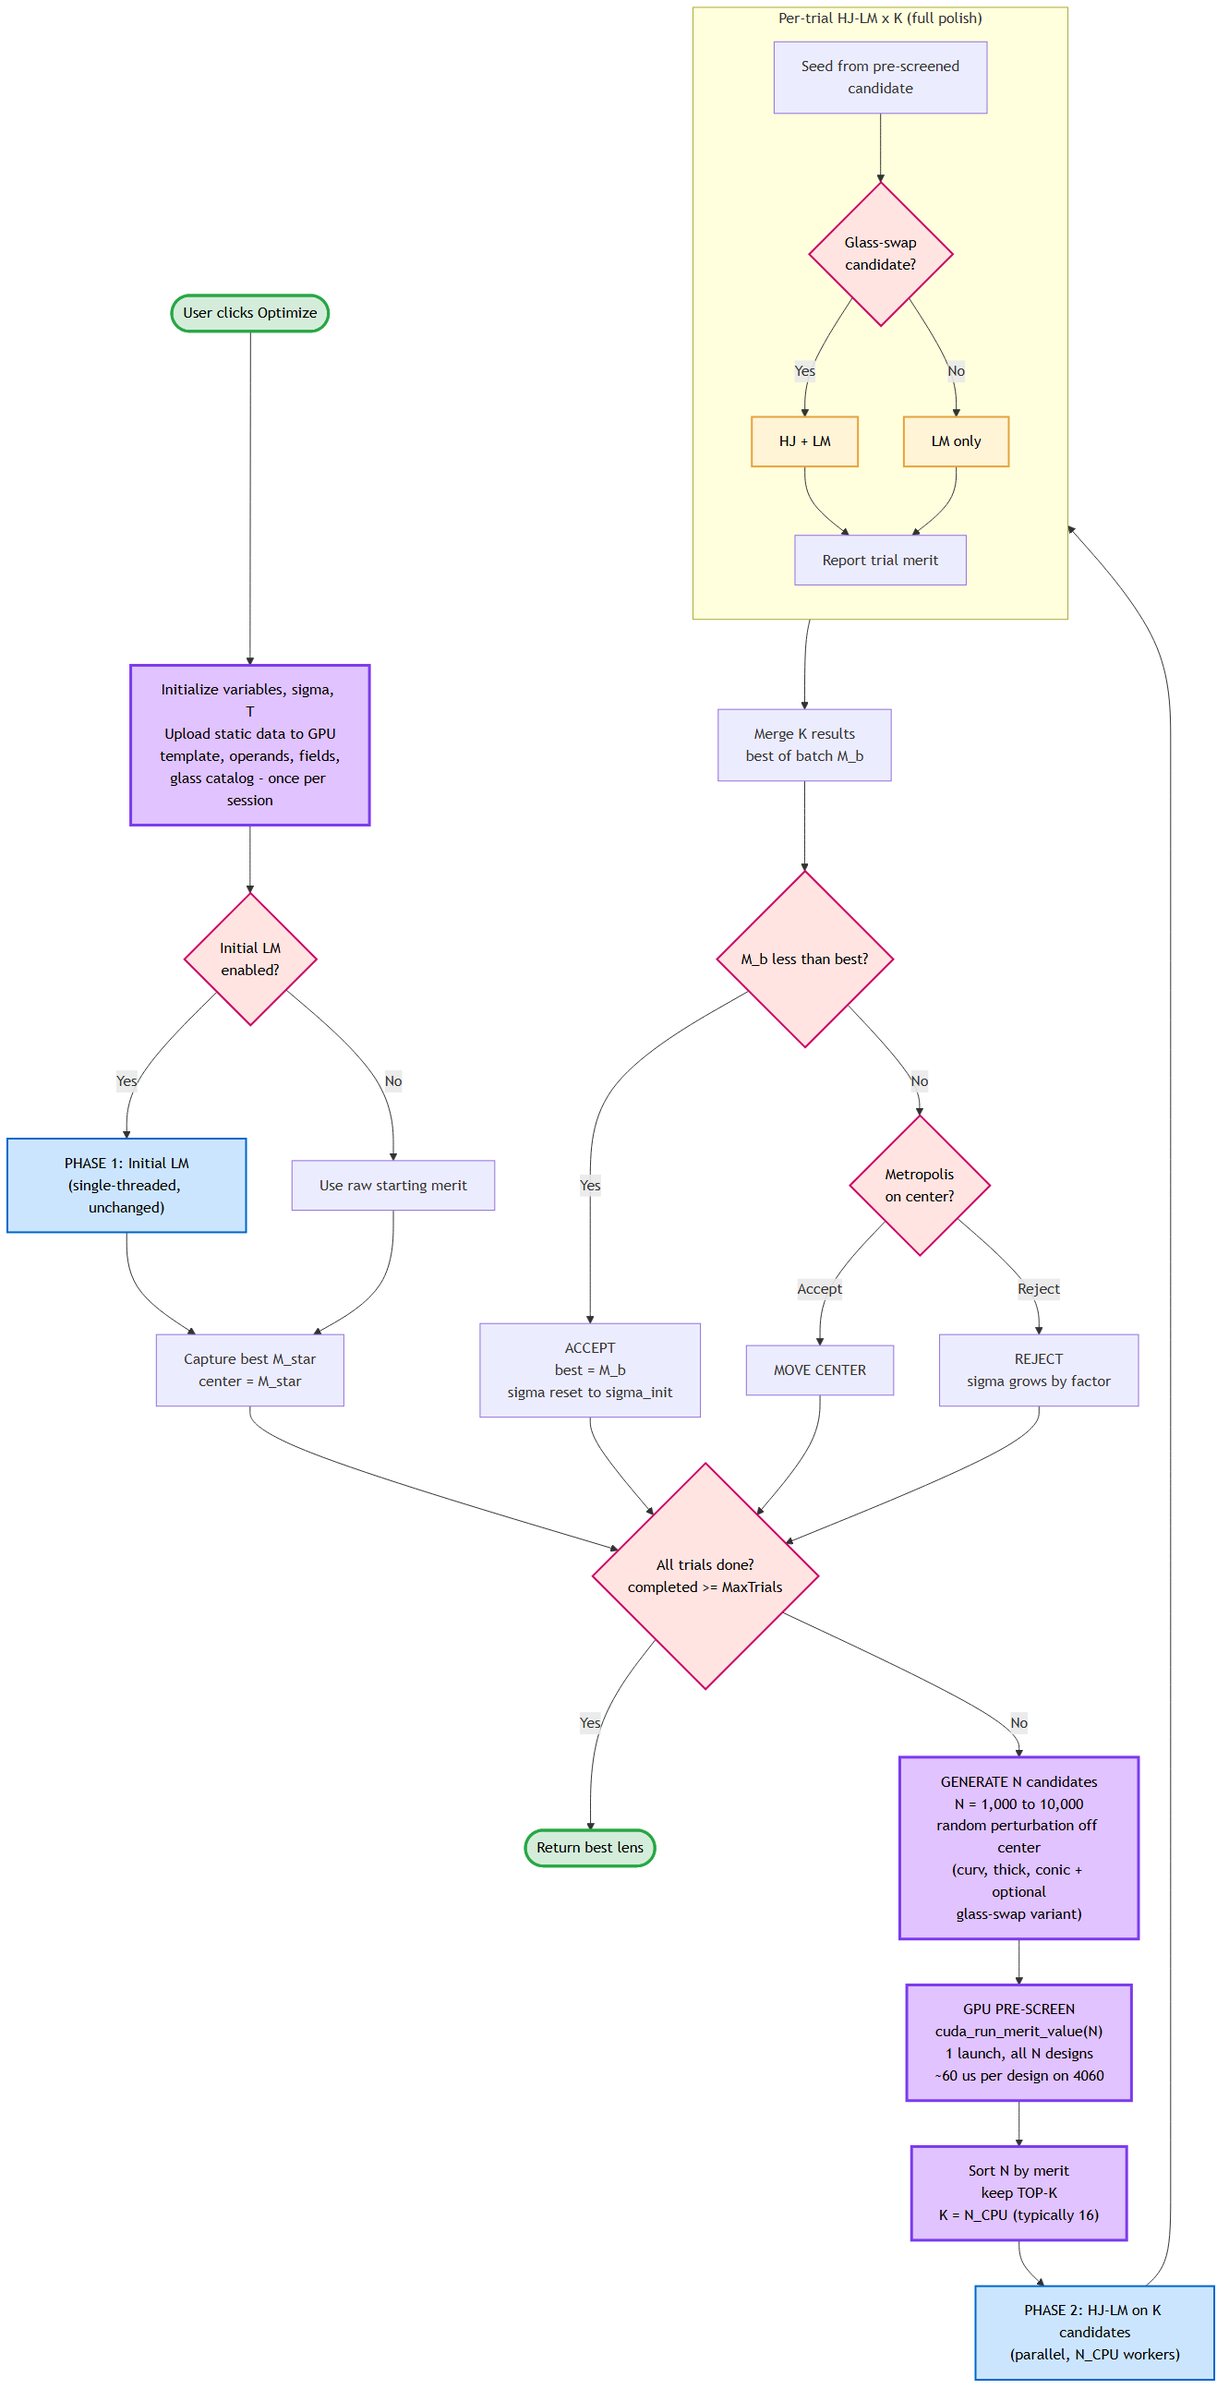
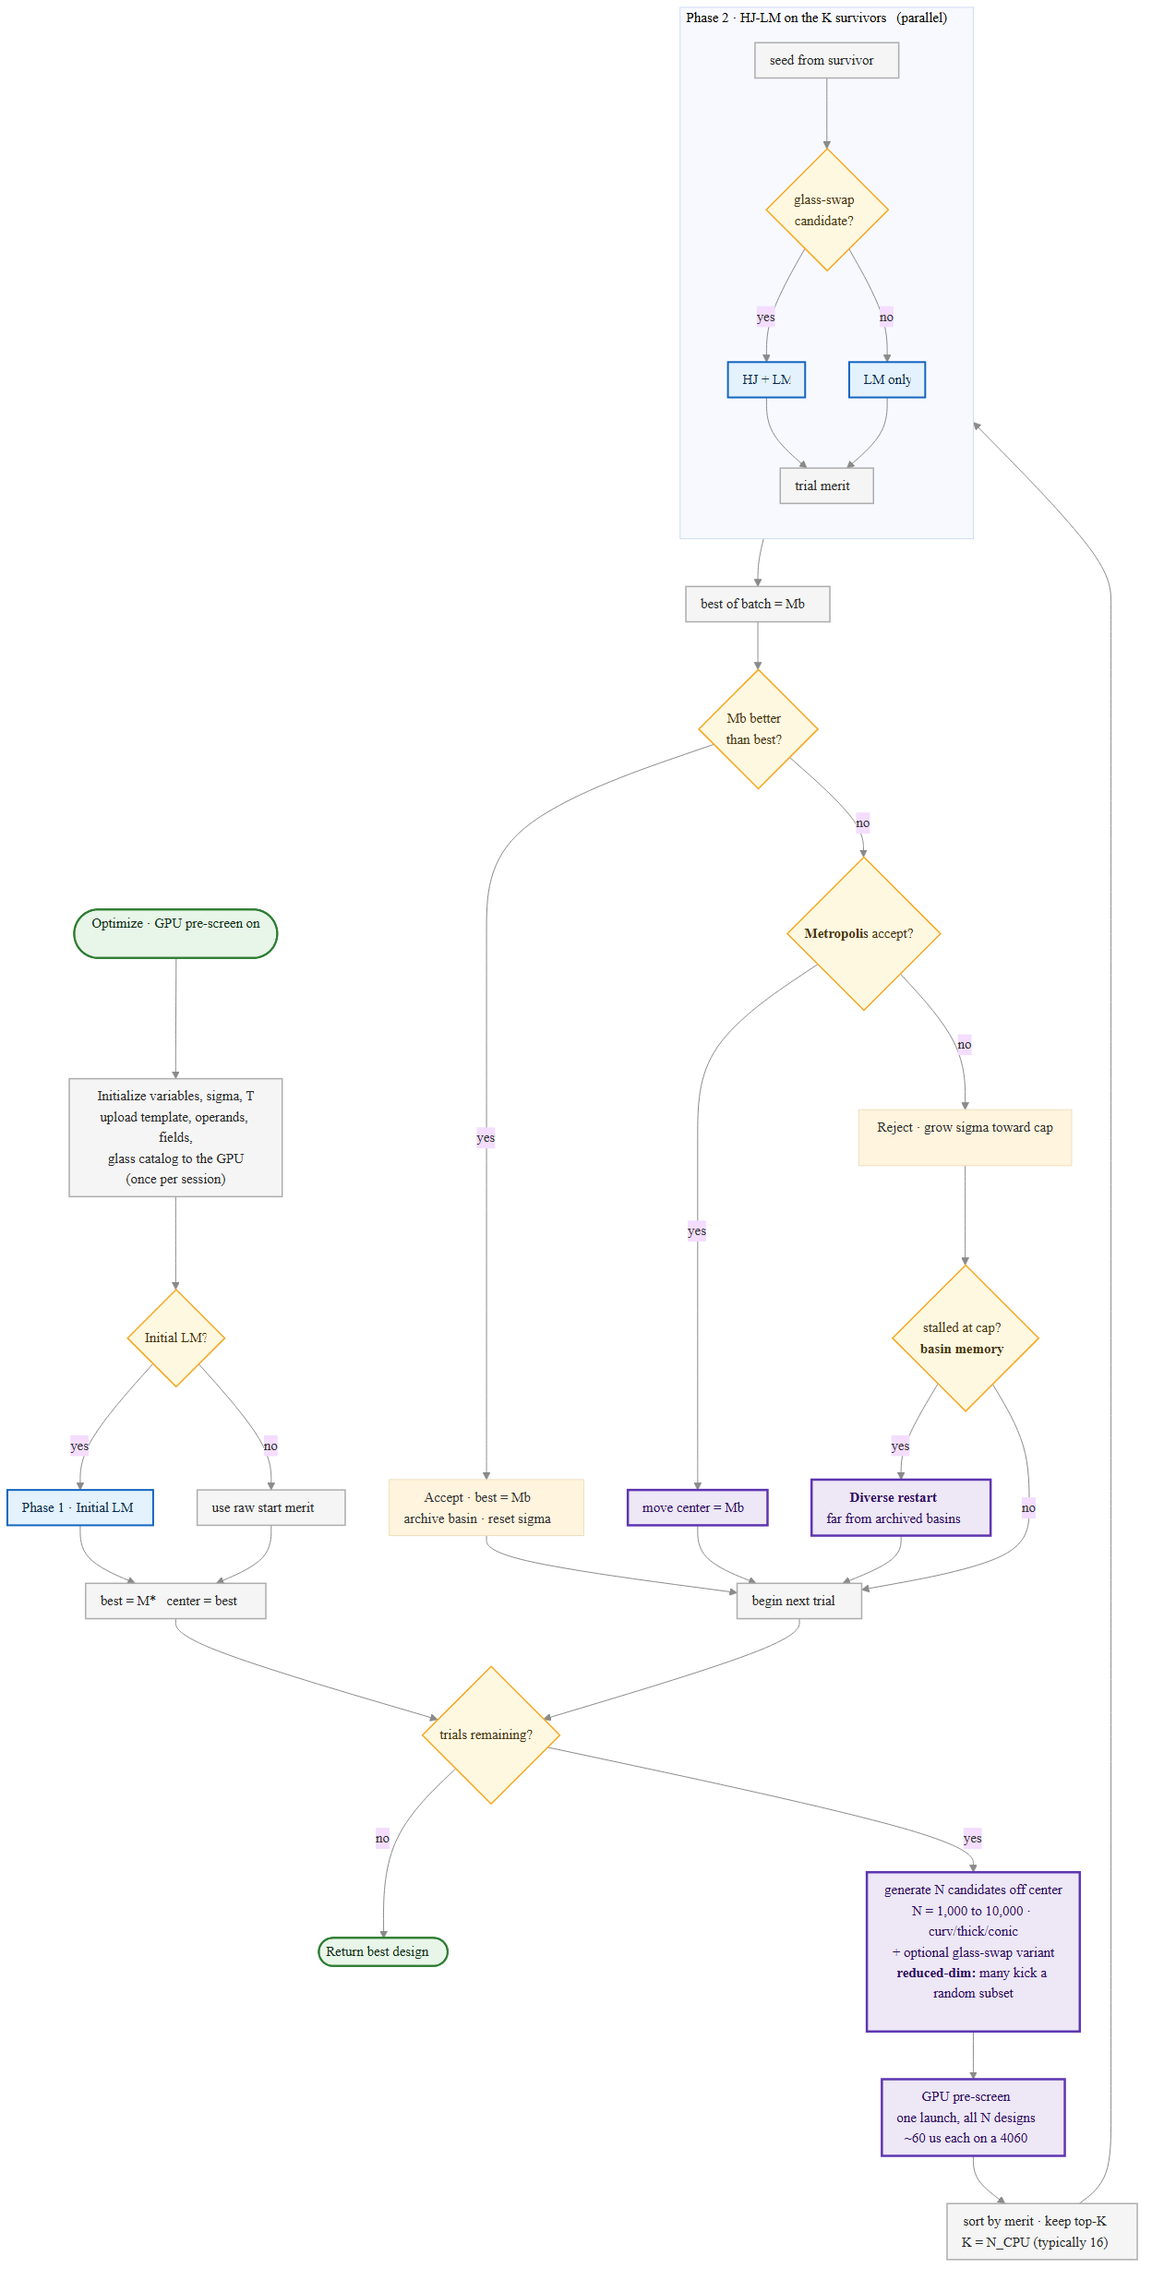
Docs: 1.0.146 optimizer settings, refreshed flow diagrams, CHANGELOG
- optimization.md: document the Multistart / Global Multi Start convergence
  levers (reduced-dim perturbation, basin memory / diverse restart, Metropolis)
  and the Basin Hopping / Global Basin Hopping exploration knobs (Metropolis
  walk, temperature, restart-at-stall, restart sigma), with the four settings
  dialog screenshots; fix a table cell truncated by unescaped pipes and a stale
  colour reference.
- Refresh the three optimizer flow diagrams (Mermaid sources + PNGs): add the
  reduced-dim and basin-memory paths, cleaner consistent palette.
- CHANGELOG: add the 1.0.146 section.

diff --git a/docs/optimization.md b/docs/optimization.md
@@ -221,7 +221,7 @@ basin — escalating exploration gradually as the search stalls.
 
 ![Multistart architecture](images/optimization/multistart_architecture.png)
 
-The HJ-LM atom (orange boxes in the parallel block above) is
+The HJ-LM atom (the Hooke-Jeeves and Levenberg-Marquardt steps in the per-trial block above) is
 where each trial actually does its work. Hooke-Jeeves is a
 derivative-free pattern search that climbs gracefully across
 discontinuities (vignetting, ray-trace failures, glass-boundary
@@ -233,6 +233,8 @@ continuous perturbations on its own) — flip
 pre-1.0.115 always-HJ behaviour.
 
 ![HJ-LM trial detail](images/optimization/hj_lm_trial.png)
+
+![The Multi Start Optimization dialog. The **Advanced** disclosure at the top holds the engine, derivative, and LM-internals knobs; the main strip carries the trial and LM budgets, the perturbation-sigma schedule, glass substitution, and the three **convergence levers** — **Metropolis Acceptance**, **Reduced-dim perturbation**, and **Basin memory / diverse restart** — all on by default.](images/MultiStartSettings.png)
 
 | Setting | Default | Meaning |
 |---|---|---|
@@ -247,7 +249,16 @@ pre-1.0.115 always-HJ behaviour.
 | **Rescale on Glass Swap** | on | When a glass is swapped, also rescale that element's curvatures by `(n_old−1)/(n_new−1)` so its optical power is preserved to first order — keeps the swapped design feasible instead of broken, which improves the typical (median) result. **Only has any effect when glass substitution is active** (Glass Sub % > 0 with substitutable surfaces); on fixed-glass designs it is a no-op. (Basin Hopping keeps this off — its small-step trajectory is over-perturbed by the per-swap curvature jump.) |
 | **Constrained Only** | off | If on, only perturb variables that have `Min`/`Max` bounds. Useful when you want unbounded variables held fixed (e.g., a fixed-radius element). |
 | **Broyden Update** | on | Same meaning as for Local LM. Leave on. |
-| **Metropolis Acceptance** | on | When on, Multistart keeps a *current centre* state separate from *best* and may accept a worse-than-best trial as the next centre with probability `exp(−ΔM/T)` (T autotunes from early `|ΔM|` samples). Lets the search walk out of basins it has already mined. *Best* is always strict-improvement; the returned design is monotone. |
+| **Metropolis Acceptance** | on | When on, Multistart keeps a *current centre* state separate from *best* and may accept a worse-than-best trial as the next centre with probability `exp(−ΔM/T)` (T autotunes from early `\|ΔM\|` samples). Lets the search walk out of basins it has already mined. *Best* is always strict-improvement; the returned design is monotone. |
+| **Reduced-dim perturbation** | on | About half of trials perturb only a random *subset* of the variables — up to roughly a third of them — leaving the rest at their centre values, instead of kicking every variable at once. A full-dimension kick is usually pulled straight back to the same basin by LM; moving along these lower-dimensional manifolds lets the search slip into *adjacent* basins a full kick overshoots. |
+| **Basin memory / diverse restart** | on | Keeps an archive of the distinct minima the walk has visited. Once sigma has saturated at the cap for several batches with no new best, the walk *restarts* from a fresh point chosen to lie far from every archived basin (with its glasses randomized), systematically mapping new regions instead of circling the same minimum. The run-wide best is tracked separately and is never lost — it, not the current region's best, is the reported answer. |
+
+**Convergence levers.** The last three rows — Metropolis Acceptance,
+Reduced-dim perturbation, and Basin memory / diverse restart — are the
+convergence levers, all on by default. Together they turn Multistart from
+independent small kicks into a memory-guided walk that reaches deeper basins;
+leave them on unless you are deliberately reproducing the older
+kick-and-polish behaviour, in which case turn all three off.
 
 Multistart's strength is variability — it's the cheapest way to
 sample several glass sets and several nearby basins with only modest
@@ -479,6 +490,8 @@ merit tolerance) the restart is discarded as a duplicate, otherwise it is kept.
 The search stops when it has collected **Models** distinct forms, exhausted
 **Max Restarts**, or stalled (no new distinct form for several restarts).
 
+![The Global Multi Start Optimization dialog. Alongside the pool controls (Models to keep, Max restarts, Max trials / restart, Stall-at-cap batches, Base seed) and the shared Multistart budgets, the bottom strip carries the same three **convergence levers** as Multistart — **Reduced-dim perturbation**, **Basin memory / diverse restart**, and **Metropolis acceptance** — because every restart is itself a Multistart run.](images/GlobalMultiStartSettings.png)
+
 | Setting | Default | Meaning |
 |---|---|---|
 | **Models** | 16 | Target number of distinct designs to collect in the gallery. |
@@ -487,6 +500,7 @@ The search stops when it has collected **Models** distinct forms, exhausted
 | **Base Seed** | 1 | Restart *i* uses `BaseSeed × 100000 + i`. Run base seed 1, then 2, … for genuinely independent extra batches that never re-walk the same seeds. |
 | **Dedup tolerance** | 0.02 | Two designs of the same form within this relative merit count as the same gallery entry. |
 | Sigma, Glass Sub %, LM/Trial, Rescale on Glass Swap, … | | Inherited from Multistart — each restart *is* a Multistart run. |
+| **Reduced-dim perturbation**, **Basin memory / diverse restart**, **Metropolis acceptance** | on | The three [convergence levers](#multistart), exposed here as their own checkboxes. Because each restart is a full Multistart run they behave exactly as in Multistart; on by default. |
 | **GPU pre-screen** + **GPU min change (%)** / **GPU population ×** | off / 2 % / 1× | Same GPU sieve and tuning knobs as the Multistart dialog (1.0.128). Applied to every restart, so the gallery search gets the same basin-escape pre-screen. See [GPU pre-screen](#gpu-pre-screen-beta-new-in-10115-tuning-knobs-added-10128). |
 
 ![Global Multi Start Optimization dialog with the 1.0.128 GPU pre-screen controls — the `GPU pre-screen` checkbox plus `GPU min change (%)` and `GPU population ×`, which enable when the checkbox is ticked. Every restart inherits these, so the whole gallery search uses the GPU sieve.](images/GlobalMultistartGPUScreening.png)
@@ -648,6 +662,8 @@ Glass swaps and continuous-variable hops cooperate: a swap that
 gets accepted often stays in the design while later hops fine-tune
 curvatures and thicknesses around it.
 
+![The Basin-Hopping HJ+LM dialog. Below the hop / LM / HJ budgets and the glass-substitution controls, the **exploration** row governs how the walk moves between basins — **Metropolis walk** with its **Temp**, and the full-range long-jump restart tuned by **Restart@stall** and **Restart σ**. **Chains** sets how many independent walks run in parallel (0 = one per physical core).](images/BasinHoppingSettings.png)
+
 | Setting | Default | Meaning |
 |---|---|---|
 | **Hops** | 3000 | Outer-loop cap **per chain**. With **Stop on no improvement** on (the usual mode) a chain plateaus and stops long before this — the cap is just a backstop. Lower it only if you want a hard wall on runtime. |
@@ -661,6 +677,10 @@ curvatures and thicknesses around it.
 | **Glass Substitution** | off | Enable glass swaps. Pick the source from the **Glass Source** dropdown — filtered catalogs (small curated lists, cheap) or one of the loaded full catalogs (broad exploration, slower). |
 | **Glass Source** | first filtered catalog | Pool used when Glass Substitution is on. Filtered catalogs in `<install>/catalogs/Filtered/` are typically 30–100 glasses curated by status, manufacturer, refractive-index range, etc. See [Glass Catalogs](glass-catalogs.md). |
 | **Stop on no improvement / Timeout (s)** | off / 600 | Per-chain watchdog. When on, a chain ends early if *its own* best merit hasn't improved within this many seconds — see [Stop on no improvement](#stop-on-no-improvement). |
+| **Metropolis walk** | on | Governs how a *non-improving* hop is handled. **On** (default): the chain may still accept a *worse* design as its next centre with probability `exp(−ΔMerit/T)`, so it can step through a worse basin to reach a better one — thorough exploration. **Off**: *greedy* hopping — every non-improving hop is rejected and the chain restores to its best. Greedy converges quickly but can stick in the first basin. |
+| **Temp** | 0 (autotune) | Metropolis temperature *T* in `exp(−ΔMerit/T)`. **0** autotunes it to the mean of the first several uphill `\|ΔMerit\|` samples. Larger *T* accepts more worse moves (more exploration). Ignored when Metropolis walk is off. |
+| **Restart@stall** | 20 | Full-range "long-jump" restart trigger (see [Escaping a stalled search](#escaping-a-stalled-search-full-range-restarts) below). After this many consecutive hops with no new global best, the chain re-randomizes its *shape* variables across their whole range and continues from there. **0** disables it — a pure local walk that only reaches basins near the start. |
+| **Restart σ** | 0.5 | Magnitude of that long-jump kick, in the same units as Multistart's Sigma Cap. **1.0** spans a variable's full bound half-range, like a Multistart trial; smaller values land on a traceable design more often. Only used when Restart@stall > 0. |
 | **Save chains to** | (empty) | Folder to write every chain's final design (one `.lhlt` each) when the run finishes. Empty = keep only the global best in the workspace. See [Saving every chain's design](#saving-every-chains-design). |
 
 ### Escaping a stalled search (full-range restarts)
@@ -681,7 +701,10 @@ refinement. In practice a Basin-Hopping run — especially with several
 [parallel chains](#parallel-chains) — now reaches the deep basins Multistart
 finds *and* polishes each one it visits, so it is competitive with (and
 often beats) Multistart on the same design instead of freezing at the first
-local minimum. Restarts are automatic; there is nothing to configure.
+local minimum. The restart is on by default and needs no setup; since 1.0.146
+you can tune *when* it fires (**Restart@stall**, in hops) and *how far* it
+jumps (**Restart σ**) from the dialog, or disable it entirely by setting
+**Restart@stall** to 0.
 
 ### Parallel chains
 
@@ -1009,8 +1032,12 @@ chain has to be *allowed to stall* in order to jump to a better basin.
 
 The per-chain HJ-LM knobs are the **same as Basin Hopping** — Hops, LM/Hop, HJ
 Steps, Sigma, Seed, Broyden update, Glass substitution, Rescale on glass swap,
-Only-randomize-constrained, and the Glass Source — and behave identically *inside*
-each episode. The differences are the three controls that govern the global loop:
+Only-randomize-constrained, the Glass Source, the **Metropolis walk** (with its
+**Temp**), and the full-range restart (**Restart@stall**, **Restart σ**) — and
+behave identically *inside* each episode. The differences are the three controls
+that govern the global loop:
+
+![The Global Basin-Hopping HJ+LM dialog. The per-chain knobs match Basin Hopping — including the **Metropolis walk** / **Temp** and the **Restart@stall** / **Restart σ** long-jump restart — while **Global (min)** caps the whole run and **Stop on no improvement** is locked on (only its Timeout is editable), because the restart-from-elite migration between chains depends on episodes being allowed to stall.](images/GlobalBasinHoppingSettings.png)
 
 | Setting | Default | Meaning |
 |---|---|---|

diff --git a/CHANGELOG.md b/CHANGELOG.md
@@ -2,6 +2,51 @@
 
 All notable changes to LensHH-LT and the LensHH-LT-Engine.
 
+## 1.0.146 — 2026-08-21
+
+### Added
+- **Convergence levers in Multistart and Global Multi Start.** Multistart now
+  defaults to *reduced-dimensionality perturbation* (a share of trials kick only a
+  random subset of variables, reaching adjacent basins a full-variable kick
+  overshoots) and *basin memory / diverse restart* (remembers the minima visited and,
+  on stalling, restarts far from all of them). With Metropolis acceptance these three
+  levers are checkboxes in the Multistart and Global Multi Start dialogs, on by
+  default, and can be turned off for the previous kick-and-polish behaviour.
+- **Basin-Hopping exploration controls in more places.** The Metropolis walk (and its
+  temperature), the restart-at-stall trigger, and the restart jump magnitude are now
+  available in Global Basin Hopping and from the CLI and MCP, matching the Basin
+  Hopping dialog.
+
+### Changed
+- **Continuous vignetting penalty.** The penalty on a design that clips rays is now
+  proportional to how many rays are lost and how far they miss, instead of a flat
+  wall. A design that drifts into heavy vignetting no longer freezes — Multistart and
+  Basin Hopping get a gradient back out toward a vignetting-free solution.
+- **Reflective perturbation for constrained variables.** A perturbation that would
+  push a bounded variable past its limit now reflects back into range instead of
+  pinning to the boundary (a pinned variable stops responding to the search), so
+  constrained Multistart and Basin Hopping converge better.
+- **Simpler Multistart dialog.** Hooke-Jeeves seeding is now automatic (the manual
+  control was removed); low-level LM and engine settings moved to an Advanced
+  disclosure.
+- **Faster first Basin-Hopping hop** via a parallelized initial refinement.
+
+### Fixed
+- **Exit-pupil wavefront for systems with the exit pupil in front of the image**
+  (e.g. conoscopes). The wavefront (OPD) map, OPD fan, and RMS wavefront (`WAVEX`)
+  operand were collapsing the image-plane defocus term and under-reporting the
+  wavefront error; the optical-path difference is now measured along the true ray.
+  On-axis results and ordinary systems are unchanged.
+- **RMS wavefront on vignetted designs.** The `WAVEX` tilt-removal step is now
+  correctly normalized for partially vignetted pupils, which had over-reported the
+  wavefront error on designs that clip rays.
+- **Relative Illumination analysis on designs brighter off-axis.** When a design's
+  off-axis illumination exceeds on-axis (a lower effective F/# off-axis), the analysis
+  previously clamped the curve to 1.0 and drew a flat line; it now plots the true
+  curve, normalized to the brightest field, so on-axis can read below 1.0 and the
+  curve peaks off-axis. (The `ILL` merit operand was already correct.)
+- **Stability during parallel glass substitution** across Basin-Hopping chains.
+
 ## 1.0.145 — 2026-08-16
 
 ### Changed

diff --git a/docs/build/diagrams/README.md b/docs/build/diagrams/README.md
@@ -10,22 +10,28 @@ Mermaid sources for the optimization-chapter flowcharts in
 | `2_hj_lm.mmd` | `hj_lm_trial.png` |
 | `3_gpu_prescreen.mmd` | `gpu_prescreen_architecture.png` |
 
+Each `.mmd` carries a `config:` front-matter block (theme, palette,
+spacing), so no extra theme flags are needed at render time — only
+`-o` and `-w`. Colours follow a shared palette: green = terminals,
+blue = phase/engine steps, amber = decisions, grey = plumbing, and
+**purple = the convergence levers** (reduced-dim perturbation,
+Metropolis, basin-memory / diverse restart, and the GPU pre-screen).
+
 ## Re-rendering after an edit
 
 Install [`@mermaid-js/mermaid-cli`](https://github.com/mermaid-js/mermaid-cli)
-(needs Node 18+; puppeteer is bundled). One-off via `npx`:
+(needs Node 18+; puppeteer is bundled). One-off via `npx` — render all three
+with a white background:
 
 ```bash
-npx -y @mermaid-js/mermaid-cli \
-  -i docs/build/diagrams/1_multistart.mmd \
-  -o docs/images/optimization/multistart_architecture.png \
-  -w 1400
+npx -y @mermaid-js/mermaid-cli -i docs/build/diagrams/1_multistart.mmd    -o docs/images/optimization/multistart_architecture.png   -w 1500 -b white
+npx -y @mermaid-js/mermaid-cli -i docs/build/diagrams/2_hj_lm.mmd         -o docs/images/optimization/hj_lm_trial.png               -w 1300 -b white
+npx -y @mermaid-js/mermaid-cli -i docs/build/diagrams/3_gpu_prescreen.mmd -o docs/images/optimization/gpu_prescreen_architecture.png -w 1500 -b white
 ```
 
 Or install once globally (`npm i -g @mermaid-js/mermaid-cli`) and use
-the `mmdc` binary directly. Use width `-w 1400` for the two
-horizontal Multistart diagrams and `-w 1200` for the HJ-LM detail
-(narrower and taller).
+the `mmdc` binary directly. Use width `-w 1500` for the two Multistart
+architecture diagrams and `-w 1300` for the HJ-LM detail.
 
 The PDF/HTML build (`docs/build/build-pdf.bat`) does **not** re-render
 diagrams — it just embeds the PNGs already on disk. After editing a
